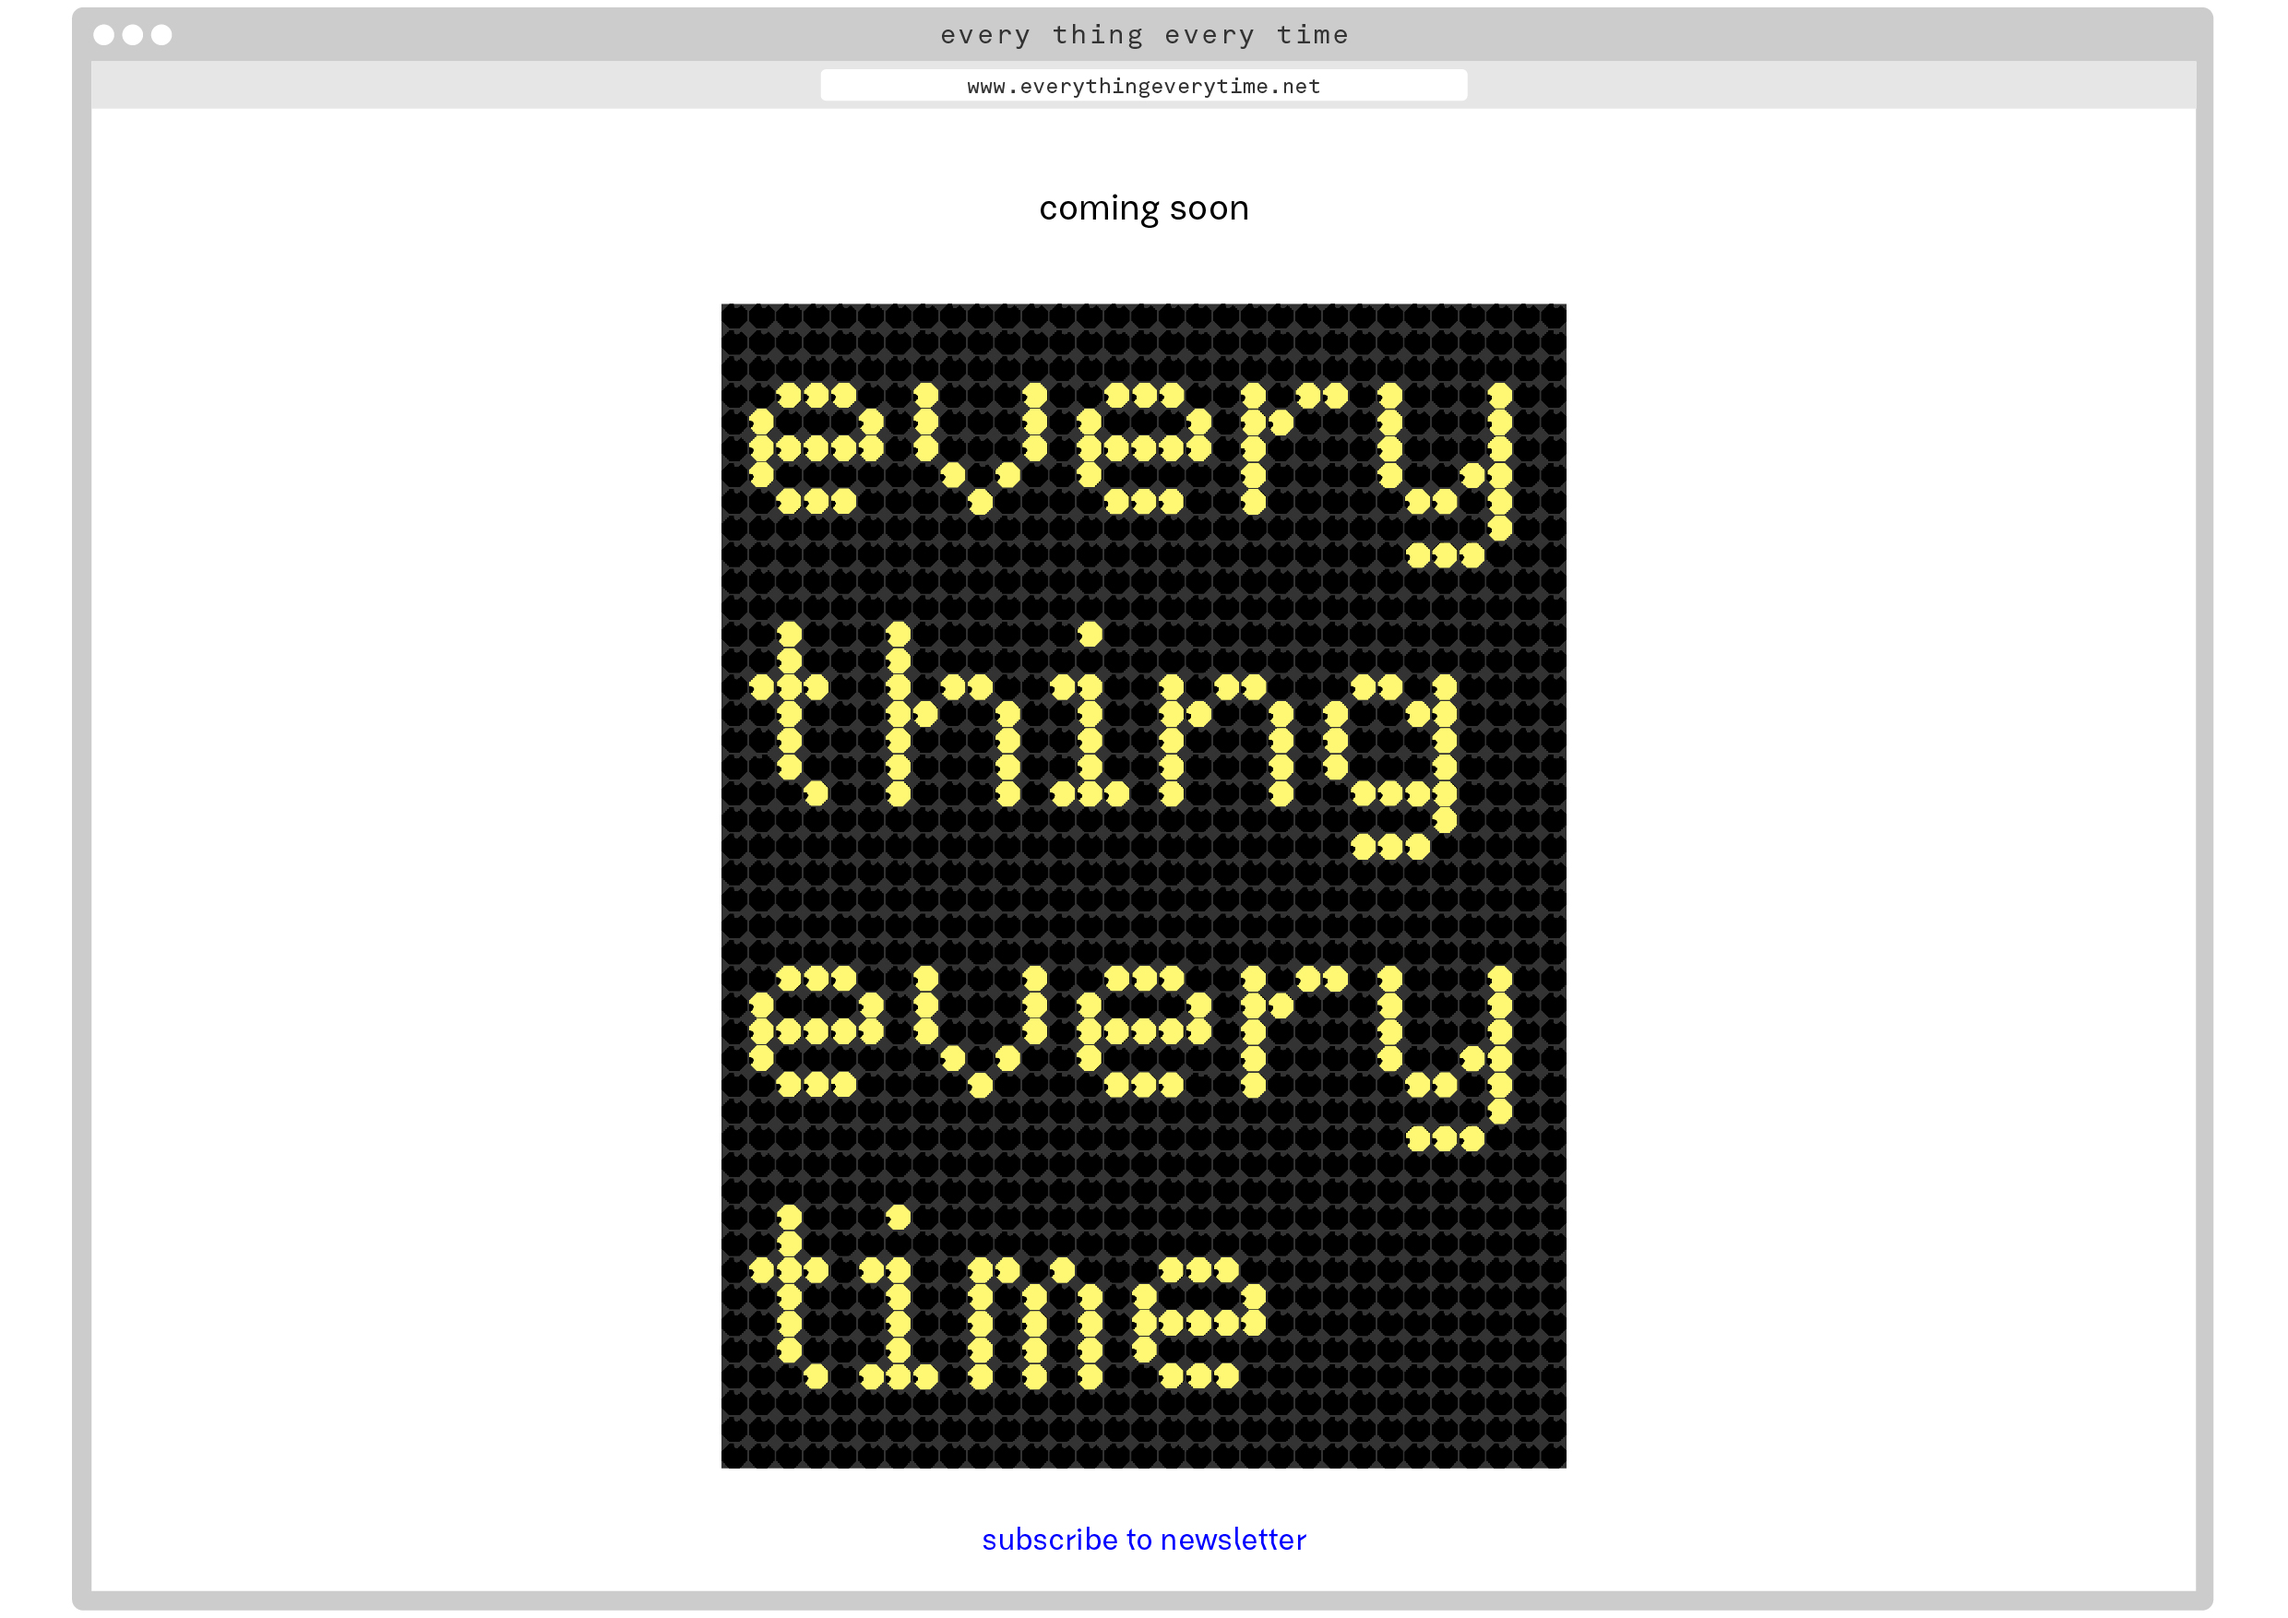
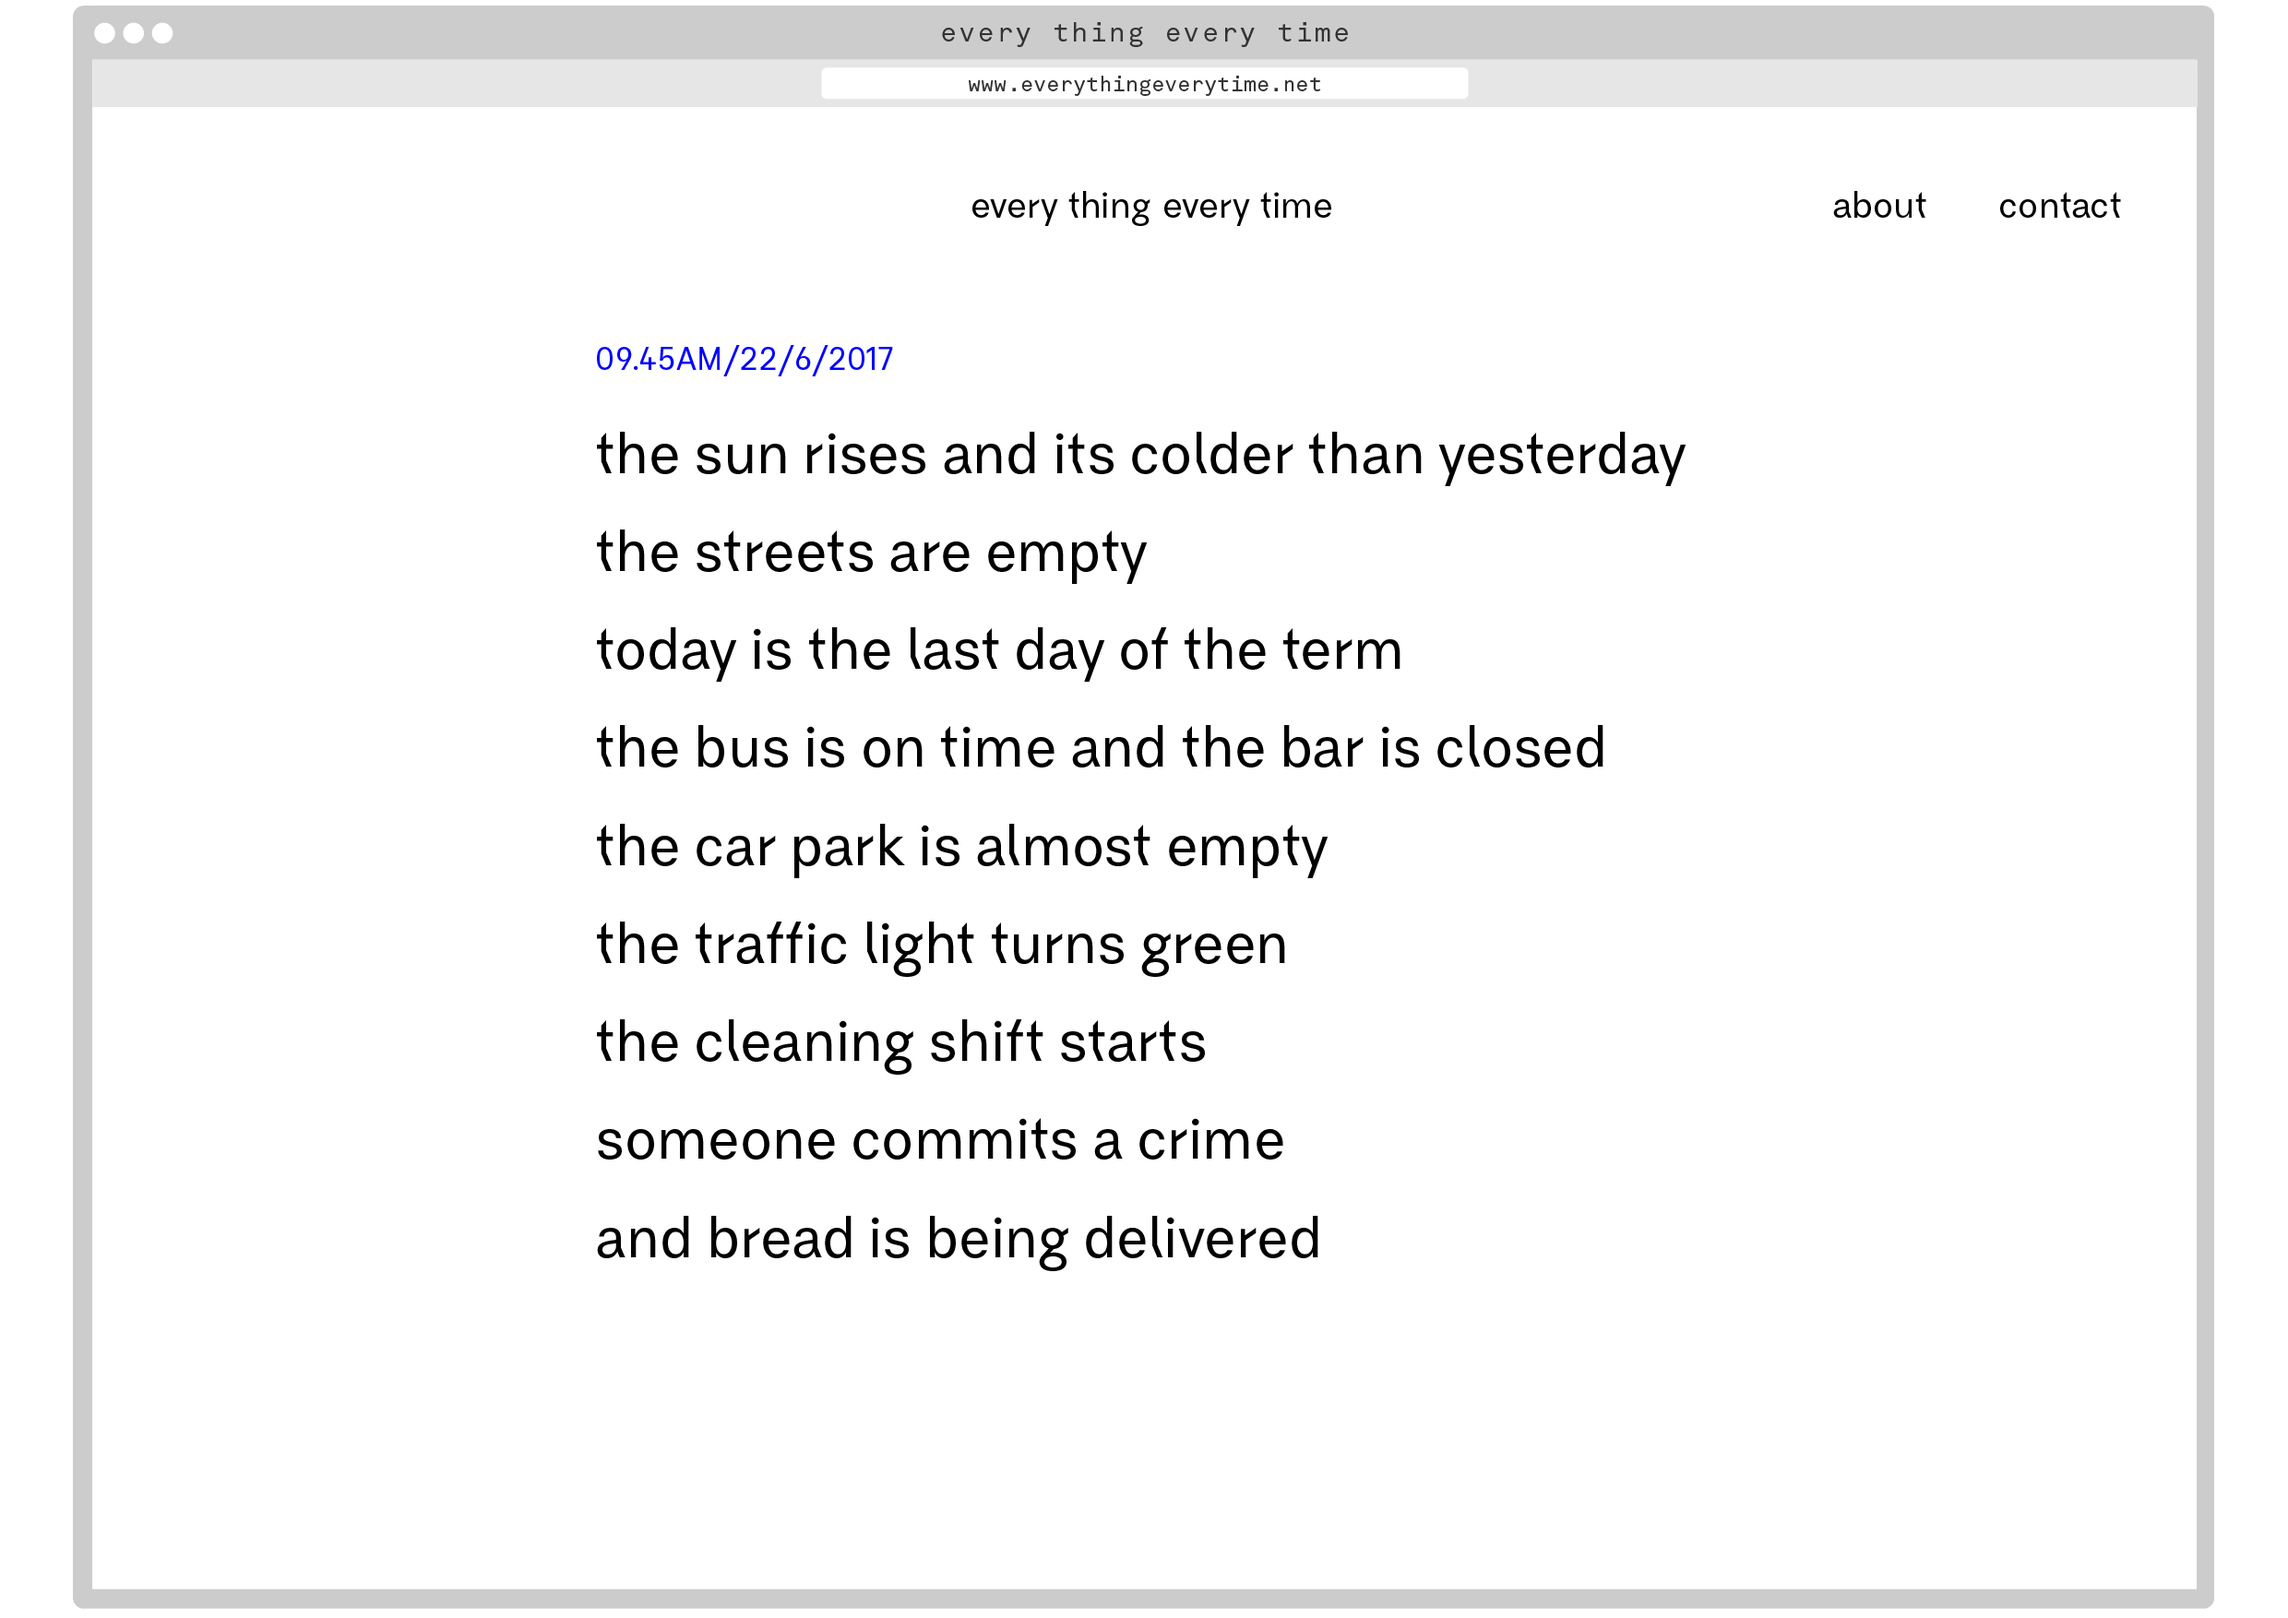
first pass at full site

diff --git a/style.css b/style.css
@@ -24,7 +24,6 @@ body {
 }
 
 header {
-  height: auto;
   width: auto;
   margin left: auto;
   margin-right: auto;
@@ -38,50 +37,45 @@ ul {
 
 .title {
   width: auto;
-  height: 100%;
   color: #000000;
   display: block;
   text-transform: lowercase;
   text-align: center;
   font-size: 1.5em;
-  padding: 1.15rem 0;
   margin left: auto;
   margin-right: auto;
 }
 
-.banner {
-  height: 100%;
-  width: auto;
-  overflow: hidden;
+.poem {
+  width: 75%;
+  margin-left: 12.5%;
+  margin-right: 12.5%;
+  margin-top: 5rem;
 }
 
-.banner img {
-  max-height: 38rem;
-  width: auto;
-  min-height: 15rem;
+.poem h2 {
+  font-size: 1.75em;
   display: block;
+  color: #000000;
+  text-transform: lowercase;
+  text-align: left;
+  margin: 1.75rem;
+  font-weight: lighter;
+  width: 65%;
+  max-width: 70%;
   margin-left: auto;
   margin-right: auto;
 }
 
-.mailinglist {
-  width: 100%;
-}
+.poem h3 {
+  font-size: 1em;
+  color: #0000ff;
+  display: block;
+  margin: 1.75rem;
+  font-weight: lighter;
+  width: 65%;
+  max-width: 70%;
+  margin-left: auto;
+  margin-right: auto;
 
-.mailinglist p {
-  width: 100%;
-  height: 100%;
-  padding-top: 0.6rem;
-  text-align: center;
-  text-transform: lowercase;
-}
-
-.mailinglist a {
-  width: 100%;
-  height: 100%;
-  text-align: center;
-  text-transform: lowercase;
-  text-decoration: none;
-  font-size: 1rem;
-  color: #235cbe
 }

diff --git a/index.html b/index.html
@@ -10,15 +10,20 @@
 <body>
 
   <header>
-    <h1 class='title'>coming soon</h1>
+    <h1 class='title'>every thing every time</h1>
   </header>
 
-  <div class="banner">
-    <img src="images/etet.gif" alt="every thing every time">
-  </div>
-
-  <div class="mailinglist">
-    <p><a href="newsletter.html">subscribe to newsletter</a></p>
+  <div class="poem">
+    <h3>09:45AM/22/06/2017</h3>
+    <h2>the sun rises and it's colder than yesterday</h2>
+    <h2>the streets are empty</h2>
+    <h2>today is the last day of term</h2>
+    <h2>the bus is on time and the bar is closed</h2>
+    <h2>the car park is almost empty</h2>
+    <h2>the traffic light turns green</h2>
+    <h2>the cleaning shift starts</h2>
+    <h2>someone commits a crime</h2>
+    <h2>and bread is being delivered</h2>
   </div>
 
 </body>

diff --git a/holdingPage.html b/holdingPage.html
@@ -1,0 +1,24 @@
+<!DOCTYPE html>
+<html>
+
+<head>
+  <meta charset="utf-8">
+  <title>every thing every time</title>
+  <link href="style.css" type="text/css" rel="stylesheet">
+</head>
+
+<body>
+
+  <header>
+    <h1 class='title'>coming soon</h1>
+  </header>
+
+  <div class="banner">
+    <img src="images/etet.gif" alt="every thing every time">
+  </div>
+
+  <div class="mailinglist">
+    <p><a href="newsletter.html">subscribe to newsletter</a></p>
+  </div>
+
+</body>
